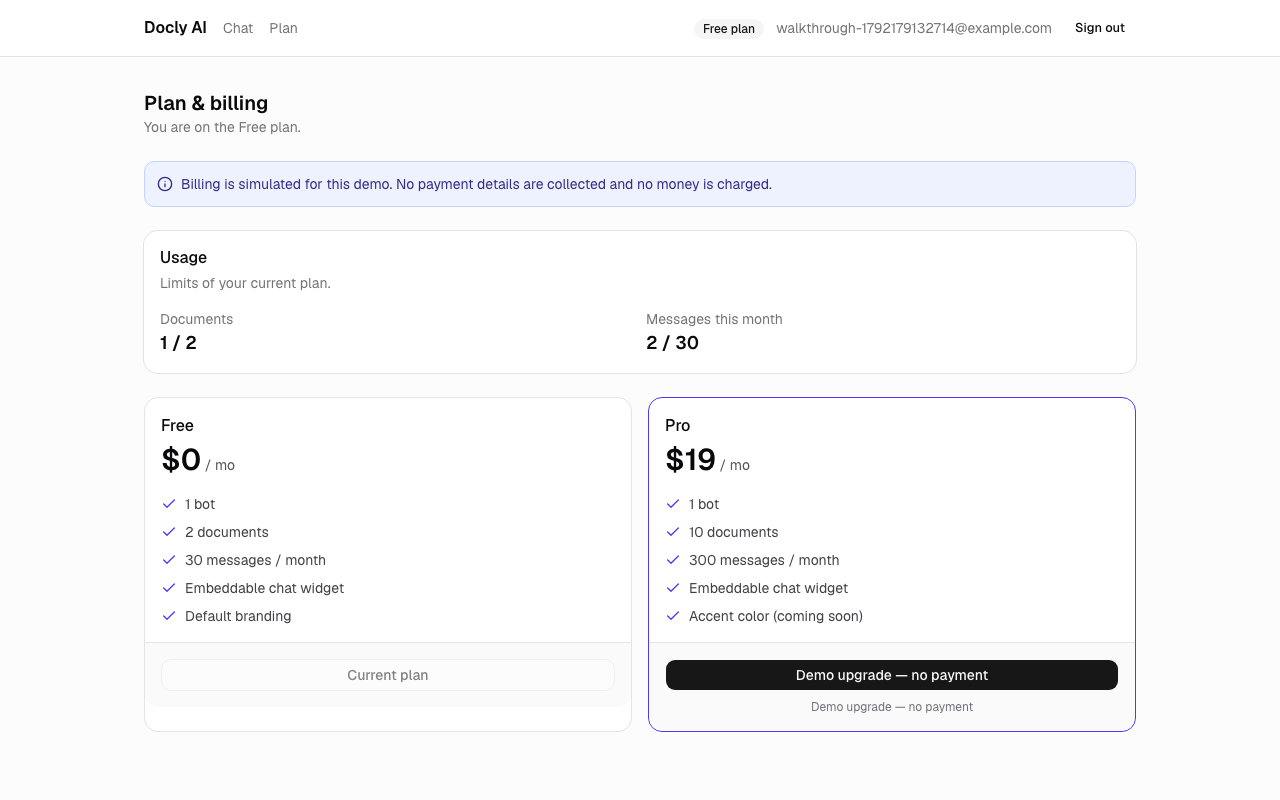
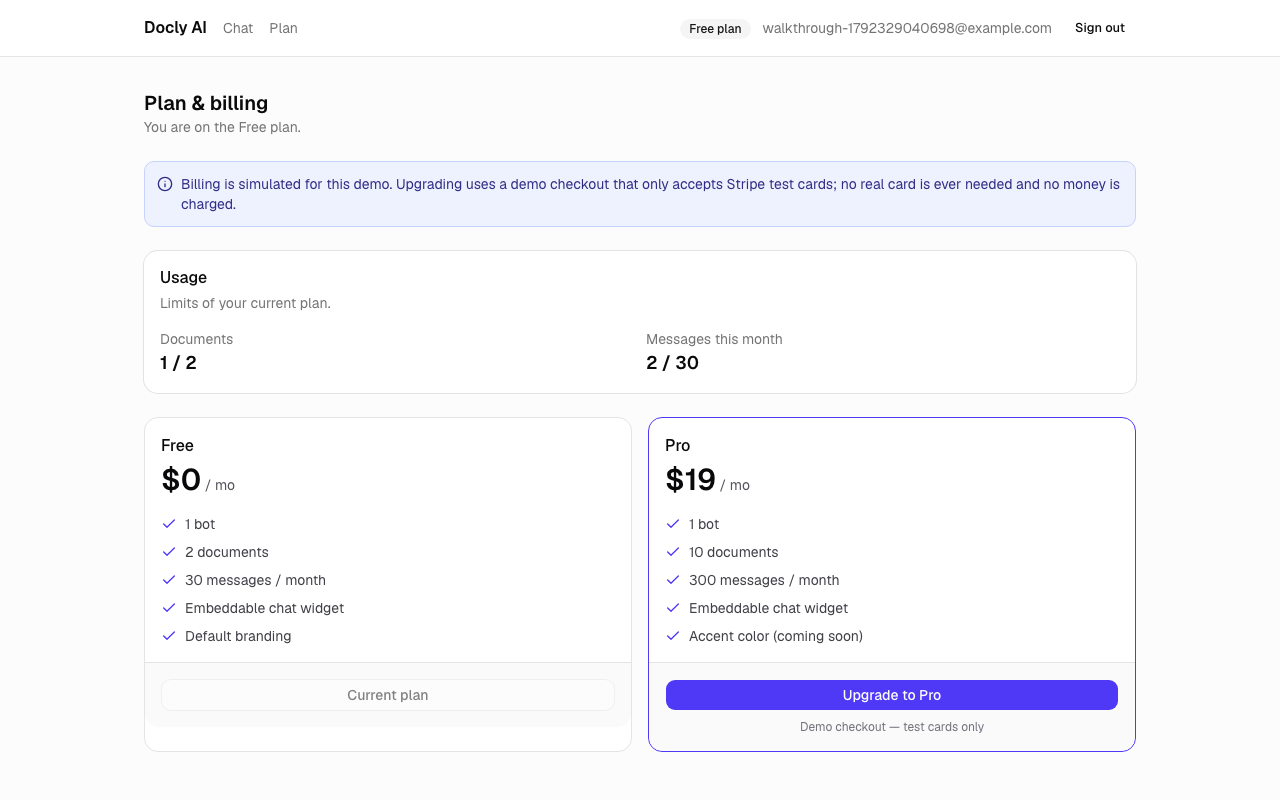
docs(billing): document the demo checkout and refresh walkthrough screenshots

diff --git a/README.md b/README.md
@@ -14,9 +14,16 @@ Your docs. Instant answers. Upload company documents (PDF or TXT), ask questions
 4. Ask a question in the dashboard chat. Answers come only from your documents; anything else gets "I don't know based on these documents."
 5. Switch **Published** on and copy the embed snippet.
 6. Open the demo site with your bot: `https://docly-ai-demo-site.vercel.app/?app=https://docly-ai-ruddy.vercel.app&bot=<BOT_ID>` (the bot id is in the embed snippet on the dashboard). Click the launcher and ask the same question as a visitor.
-7. Open **Plan** (`/dashboard/billing`) and press **Demo upgrade, no payment**. Limits change immediately (2 to 10 documents, 30 to 300 messages per month).
+7. Open **Plan** (`/dashboard/billing`) and press **Upgrade to Pro**, then pay in the demo checkout with the test card `4242 4242 4242 4242` (any future date, any CVC; the **Fill test card** button does it for you). Limits change immediately (2 to 10 documents, 30 to 300 messages per month).
 
-Billing is simulated. No payment details are collected and no money is charged.
+### Billing and the demo checkout
+
+Billing is simulated and no money is ever charged, but the upgrade goes through a Stripe-style demo checkout (`/dashboard/billing/checkout`) where you type card details.
+
+- **Test cards only.** `4242 4242 4242 4242` (Visa, succeeds), `5555 5555 5555 4444` (Mastercard, succeeds), `4000 0000 0000 0002` (declined), `4000 0000 0000 9995` (insufficient funds). Any other number, even a Luhn-valid one, is rejected in the browser with a demo-only message.
+- **Tokenization in the browser.** The card number, expiry and CVC are read only by client code (`src/lib/payments/demo-card.ts`), which turns an allowed test card into a Stripe-style test token (`tok_visa`, ...). Only that token, plus the brand and last four digits for the receipt, is sent to the `completeDemoCheckout` Server Action. Card fields use `autocomplete="off"` and non-standard names, are cleared after submit and on unmount, and are never logged or stored. An E2E test asserts that no request contains the card digits.
+- **Server side.** `completeDemoCheckout` validates the token against the known test tokens, charges through a mock payment provider (`src/lib/payments/`) and only then sets the plan to Pro. `setPlan` is limited to the downgrade to Free ("Cancel subscription (demo)"); nothing can set Pro without a successful charge.
+- **Deviation from the SDD.** SDD section 4 says no card details are collected. This demo deliberately lets the user type card fields for realism; it stays safe on a public site because only test cards are accepted and card data never leaves the browser. Real Stripe would replace the mock provider (`STRIPE_SECRET_KEY` and PaymentIntents) and use Stripe Elements instead of these inputs.
 
 ## Architecture
 
@@ -148,7 +155,7 @@ With the `app` and `bot` query parameters the page injects the widget script for
 - Ingestion is synchronous (at most 5 MB, 200 chunks, 60 second function limit), with no queue.
 - No streaming answers, no source citations and no saved chat history. The conversation lives in the browser tab only.
 - One bot per account.
-- Billing is simulated: the Free/Pro switch changes the enforced limits but collects no payment. A downgrade deletes nothing; new uploads are blocked until the document count is below the Free limit.
+- Billing is simulated: the demo checkout accepts only Stripe test cards and charges nothing; Pro changes the enforced limits. A downgrade deletes nothing; new uploads are blocked until the document count is below the Free limit.
 - Gemini free tier has per-minute and per-day rate limits (answers can fail with a friendly "temporarily unavailable" message), and on the free tier Google may use prompts to improve its products. Do not upload confidential documents to a free-tier key.
 - A Supabase free project pauses after about a week of inactivity. Open the dashboard to wake it before a review.
 - Public rate limits, all per bot: 10 messages per minute per visitor, 20 per hour per visitor, and 30 per minute across all visitors. Visitors share the owner's monthly quota (Free 30, Pro 300).

diff --git a/docs/architecture.md b/docs/architecture.md
@@ -190,8 +190,17 @@ The same function `answerQuestion()` serves both modes, so the playground and wi
 - The visitor's message counts against the owner's monthly quota. In public mode a quota error shows a neutral "temporarily unavailable" message with no upgrade CTA.
 - The owner turns publishing on and off with the `setPublished` Server Action, which updates `chatbots.is_published` through the user client (the owner holds the column grant; RLS scopes the row).
 
-### 5.5 Mock billing (Epic 04)
-`/dashboard/billing` is a page (not a modal). It shows usage from `getBillingSummary` (plan, documents `used/limit`, messages `used/limit`, `isOverDocumentLimit`) and the `PLANS` cards. The **"Demo upgrade — no payment"** button asks for an inline confirmation, then calls the `setPlan` Server Action, which validates the plan id and runs `billing.changePlan` (`update profiles set plan where id = <session user>`) with the admin client. A downgrade deletes nothing: `create_document` blocks uploads until the document count is below the Free limit, and `reserve_message` applies the Free limit right away. Nothing collects card data.
+### 5.5 Mock billing and demo checkout
+`/dashboard/billing` is a page (not a modal). It shows usage from `getBillingSummary` (plan, documents `used/limit`, messages `used/limit`, `isOverDocumentLimit`) and the `PLANS` cards. The Pro card links to `/dashboard/billing/checkout`; the Free card offers **"Cancel subscription (demo)"** with an inline confirmation, which calls the `setPlan` Server Action. `setPlan` accepts only `'free'` (zod `downgradePlanSchema`; `'pro'` is rejected with "Use checkout to upgrade.") and runs `billing.changePlan` with the admin client for the session user. A downgrade deletes nothing: `create_document` blocks uploads until the document count is below the Free limit, and `reserve_message` applies the Free limit right away.
+
+**Payment adapter.** `src/lib/payments/payment-provider.ts` defines `PaymentProvider.charge({ token, amountUsd, description, customerId })`, returning `{ ok, chargeId }` or a decline (`card_declined`, `insufficient_funds`, `invalid_token`). `mock-payment-provider.ts` accepts only the four Stripe test tokens, simulates about 1.2 s of processing (injectable delay) and returns `ch_demo_<random>`. `getPaymentProvider()` returns the mock; real Stripe would plug in there (`STRIPE_SECRET_KEY` and PaymentIntents) without touching the action.
+
+**Checkout flow.**
+1. The client form (`checkout-form.tsx`) reads the typed card and calls `tokenizeTestCard` (`demo-card.ts`, pure, browser-side). Only the four test numbers map to a token; anything else is rejected locally and nothing is sent. Fields are disabled until hydration, use `autocomplete="off"` and non-standard names, and are cleared after submit and on unmount.
+2. The client calls `completeDemoCheckout({ token, brand?, last4? })`. The number, expiry and CVC never reach the server (the input schema is strict, so extra keys are rejected).
+3. The action calls `requireUser()`, validates the token, returns "You're already on Pro." for Pro owners, charges `PLANS.pro.priceUsd` through the provider and, only on success, runs `changePlan(admin, user.id, 'pro')` and revalidates. A decline returns the provider message and leaves the plan unchanged. Logs carry the user id, token type and result only.
+
+This deliberately deviates from SDD section 4 ("no card details are collected"); it is safe because only test cards are accepted and card data stays in the browser.
 
 ---
 

diff --git a/docs/walkthrough.md b/docs/walkthrough.md
@@ -54,10 +54,22 @@ On the demo site, which is a different origin without any owner cookies, a float
 
 ![Plan and billing](walkthrough/08-billing.png)
 
-The Plan page shows usage and both plans. Billing is simulated: the upgrade button says "Demo upgrade, no payment" and no card details are collected.
+The Plan page shows usage and both plans. Billing is simulated: **Upgrade to Pro** opens a demo checkout and no money is charged.
 
-## 9. After the demo upgrade
+## 9. Demo checkout
 
-![After the demo upgrade](walkthrough/09-after-upgrade.png)
+![Demo checkout](walkthrough/09-checkout.png)
 
-After confirming, the badge reads Pro and the limits change right away (10 documents, 300 messages per month).
+A Stripe-style page with an order summary and a payment form. Only Stripe test cards are accepted (here `4242 4242 4242 4242`); the card number, expiry and CVC never leave the browser, only a test token is sent to the server.
+
+## 10. Payment successful
+
+![Payment successful](walkthrough/10-payment-success.png)
+
+The success panel shows a demo receipt id and the card's last four digits.
+
+## 11. After the demo upgrade
+
+![After the demo upgrade](walkthrough/11-after-upgrade.png)
+
+The badge reads Pro and the limits change right away (10 documents, 300 messages per month).
